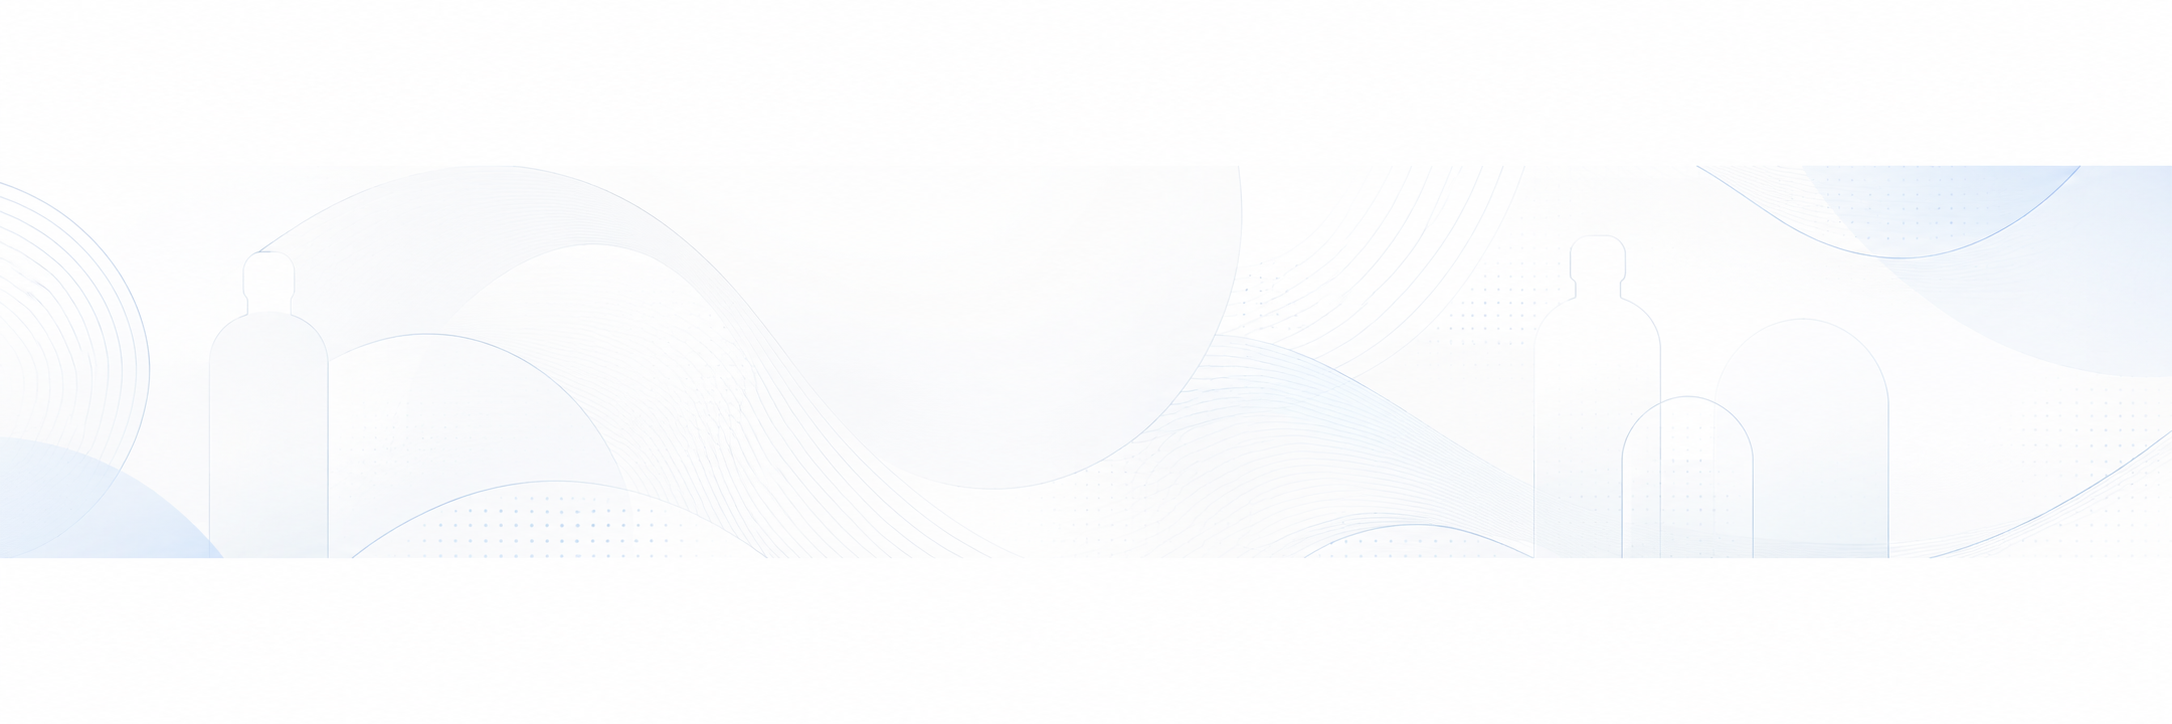
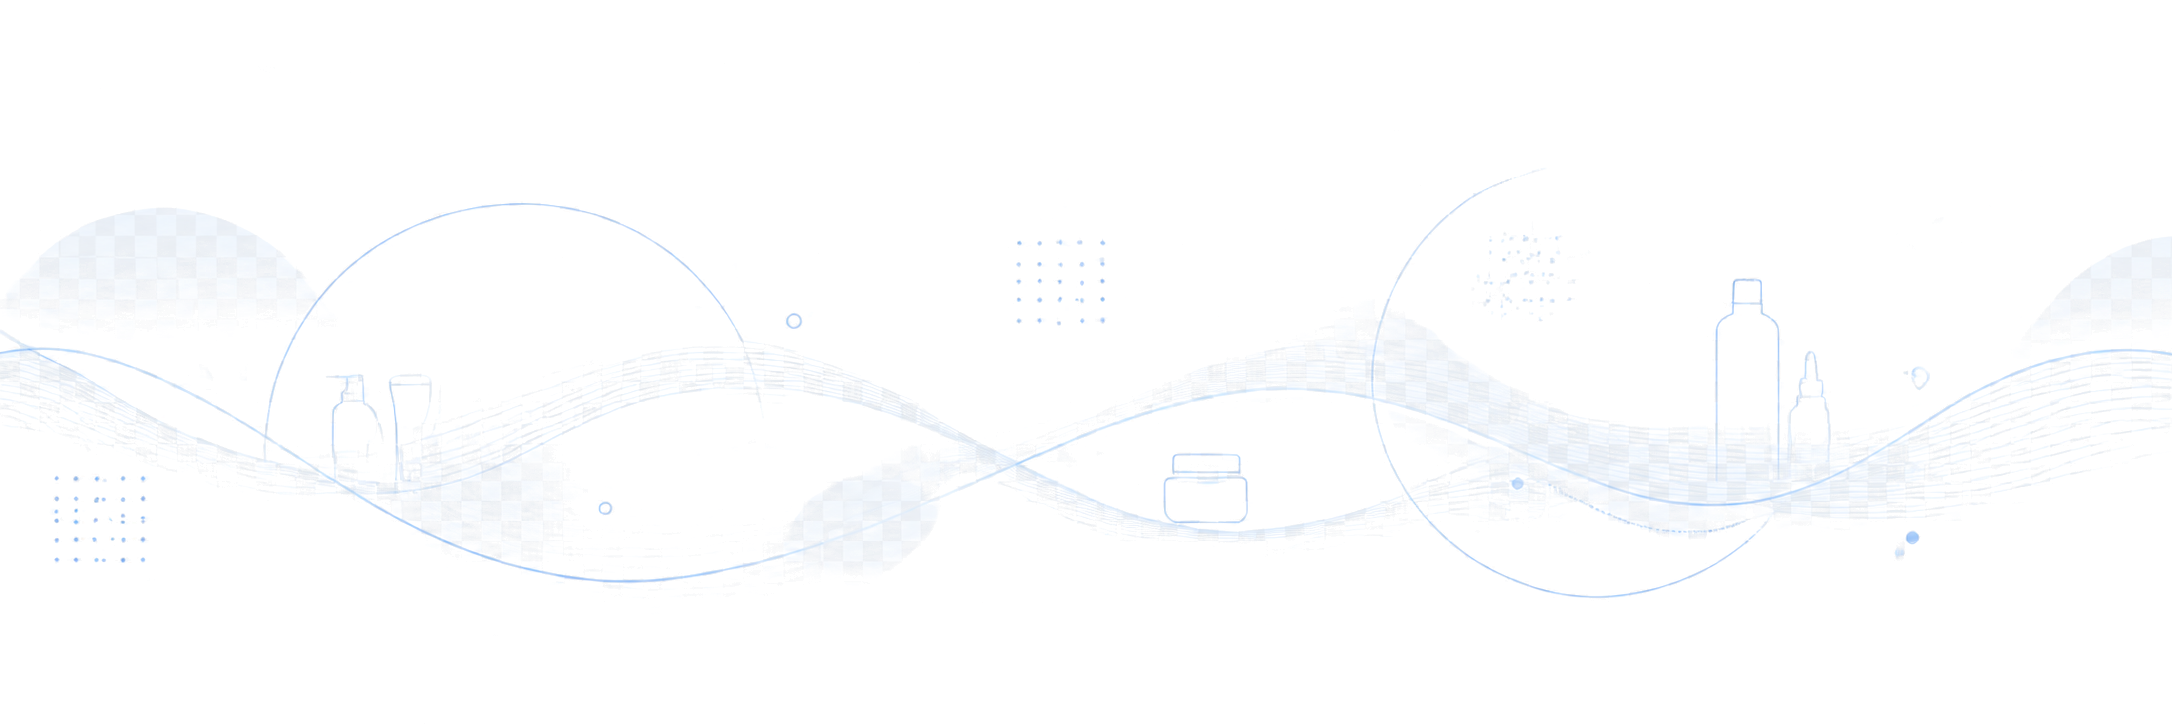
fix: header dropdown clipping, header background, pagination scroll
- Header's overflow-hidden (added for the background image) was also
  clipping the language dropdown menu — move it onto a dedicated
  wrapper around just the image instead of the whole header
- Replace the header background with a version that has real alpha
  transparency; the original had a checkerboard pattern baked into
  its pixels (an AI image-generator artifact) instead of transparency
- Clicking Next/Previous on a catalog page now smoothly scrolls back
  to the top instead of leaving the viewport mid-page

diff --git a/src/components/layout/Navigation.tsx b/src/components/layout/Navigation.tsx
@@ -48,19 +48,21 @@ export default function Navigation() {
   return (
     <header
       className={cn(
-        'fixed top-0 left-0 right-0 z-50 overflow-hidden transition-all duration-500',
+        'fixed top-0 left-0 right-0 z-50 transition-all duration-500',
         isScrolled
           ? 'py-3 bg-white/90 dark:bg-gray-900/90 backdrop-blur-xl shadow-lg'
           : 'py-5 bg-transparent'
       )}
     >
-      <Image
-        src="/images/banners/header-bg.png"
-        alt=""
-        fill
-        priority
-        className="object-cover object-[center_60%] dark:hidden pointer-events-none"
-      />
+      <div className="absolute inset-0 overflow-hidden pointer-events-none">
+        <Image
+          src="/images/banners/header-bg.png"
+          alt=""
+          fill
+          priority
+          className="object-cover dark:hidden"
+        />
+      </div>
       <nav className="relative container-custom mx-auto px-4 md:px-8">
         <div className="flex items-center justify-between">
           {/* Logo */}

diff --git a/src/components/catalog/CatalogClient.tsx b/src/components/catalog/CatalogClient.tsx
@@ -100,6 +100,7 @@ export default function CatalogClient({
     const params = new URLSearchParams(searchParams.toString());
     params.set('page', String(newPage));
     router.push(`?${params.toString()}`, { scroll: false });
+    window.scrollTo({ top: 0, behavior: 'smooth' });
   }, [router, searchParams]);
 
   // Client-side attribute filtering — now uses real attribute values from the API list response
